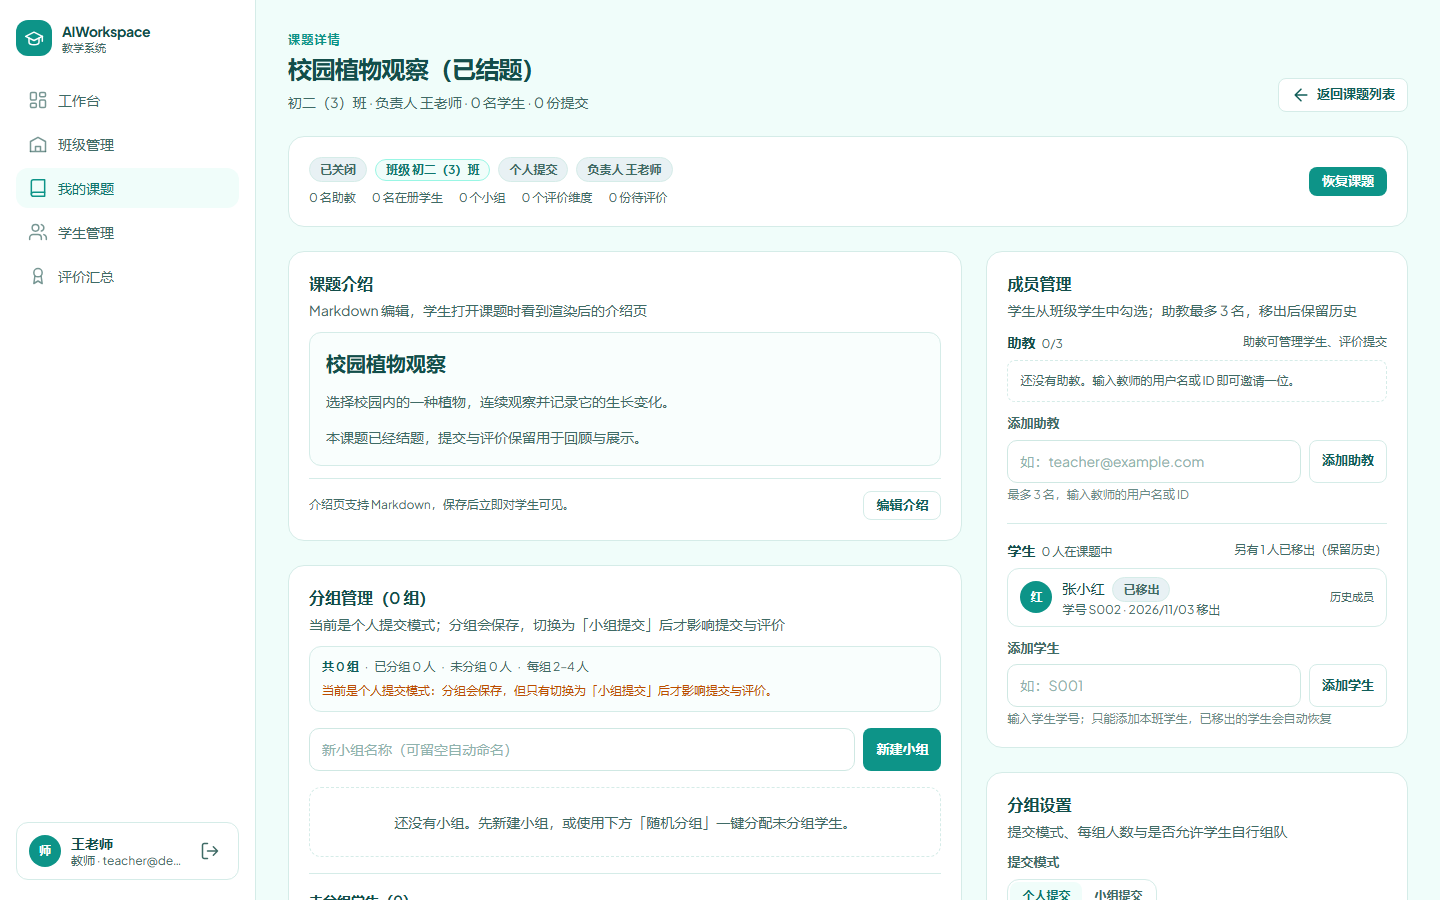
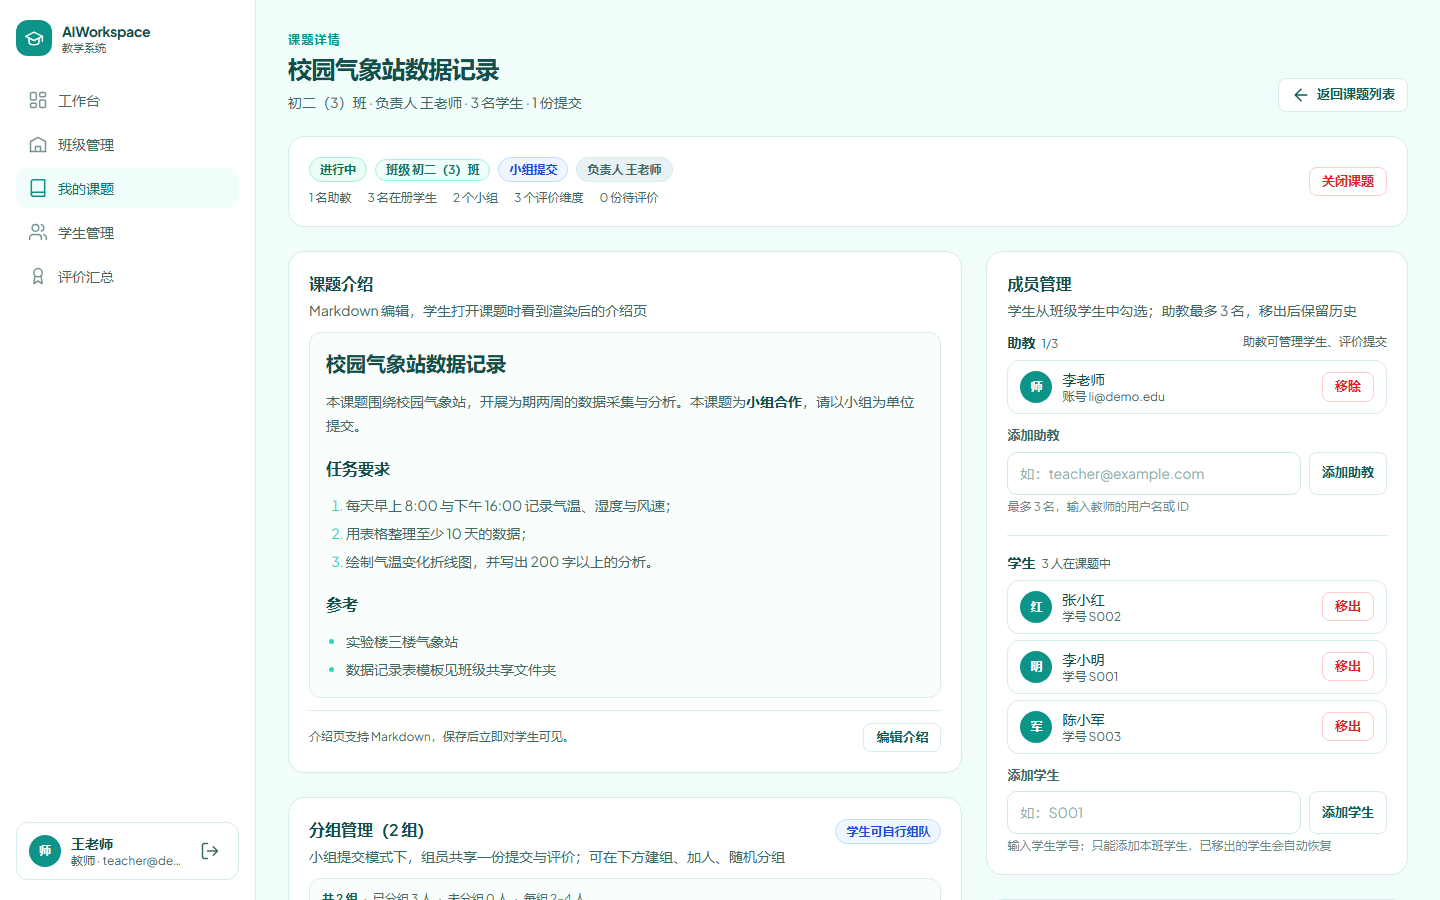
fix(ui): 已关闭课题改为只读（提示+操作禁用）；修正截图脚本登录态顺序并补充关闭态截图
- 教师课题详情：CLOSED 时显示只读提示，介绍编辑/分组管理/成员管理/维度管理/评价区禁用（pointer-events+opacity），仅保留恢复课题
- 截图脚本：admin 截图移到末尾（避免教师页面被重定向）、主课题截图选 ACTIVE、新增 16-closed 截图
- 截图更新：04/11/14/16 等

diff --git a/web/src/pages/teacher/TopicDetail.tsx b/web/src/pages/teacher/TopicDetail.tsx
@@ -67,6 +67,7 @@ export default function TeacherTopicDetailPage() {
   if (!user) return null;
 
   const isOwner = Boolean(topic && topic.owner.id === user.id);
+  const closed = topic?.status === "CLOSED";
 
   async function toggleStatus(next: TopicStatus) {
     if (!topic || statusPending) return;
@@ -177,6 +178,11 @@ export default function TeacherTopicDetailPage() {
             ) : null}
           </div>
           <FormMessage error={statusError ?? undefined} />
+          {closed ? (
+            <p className="mt-2 rounded-lg border border-amber-200 bg-amber-50 px-3 py-2 text-xs leading-relaxed text-amber-800">
+              课题已关闭：成员、分组、维度与评价均为只读；如仍需修改，请先「恢复课题」。
+            </p>
+          ) : null}
 
           <div className="grid gap-6 xl:grid-cols-[minmax(0,1.6fr)_minmax(0,1fr)]">
             <div className="min-w-0 space-y-6">
@@ -187,7 +193,7 @@ export default function TeacherTopicDetailPage() {
                 <MarkdownEditor
                   topicId={topic.id}
                   value={topic.descriptionMd}
-                  canEdit={isOwner}
+                  canEdit={isOwner && !closed}
                   onSaved={() => void load()}
                 />
               </Panel>
@@ -205,16 +211,18 @@ export default function TeacherTopicDetailPage() {
                   ) : null
                 }
               >
-                <GroupManager
-                  topicId={topic.id}
-                  groups={topic.groups}
-                  students={topic.students}
-                  submitMode={topic.submitMode}
-                  groupMin={topic.groupMin}
-                  groupMax={topic.groupMax}
-                  canManage
-                  onChanged={() => void load()}
-                />
+                <div className={closed ? "pointer-events-none opacity-60" : undefined}>
+                  <GroupManager
+                    topicId={topic.id}
+                    groups={topic.groups}
+                    students={topic.students}
+                    submitMode={topic.submitMode}
+                    groupMin={topic.groupMin}
+                    groupMax={topic.groupMax}
+                    canManage
+                    onChanged={() => void load()}
+                  />
+                </div>
               </Panel>
 
               <Panel
@@ -230,29 +238,35 @@ export default function TeacherTopicDetailPage() {
                   )
                 }
               >
-                <SubmissionList
-                  submissions={topic.submissions}
-                  dimensions={topic.dimensions}
-                  onChanged={() => void load()}
-                />
+                <div className={closed ? "pointer-events-none opacity-60" : undefined}>
+                  <SubmissionList
+                    submissions={topic.submissions}
+                    dimensions={topic.dimensions}
+                    onChanged={() => void load()}
+                  />
+                </div>
               </Panel>
             </div>
 
             <div className="min-w-0 space-y-6">
               <Panel title="成员管理" description="学生从班级学生中勾选；助教最多 3 名，移出后保留历史">
-                <MemberManager topic={topic} isOwner={isOwner} onChanged={() => void load()} />
+                <div className={closed ? "pointer-events-none opacity-60" : undefined}>
+                  <MemberManager topic={topic} isOwner={isOwner} onChanged={() => void load()} />
+                </div>
               </Panel>
 
               <Panel title="分组设置" description="提交模式、每组人数与是否允许学生自行组队">
-                <GroupSettings topic={topic} canEdit={isOwner} onChanged={() => void load()} />
+                <GroupSettings topic={topic} canEdit={isOwner && !closed} onChanged={() => void load()} />
               </Panel>
 
               <Panel title="评价维度" description="维度属于课题，评价时按维度打分（0 到满分）">
-                <DimensionManager
-                  topicId={topic.id}
-                  dimensions={topic.dimensions}
-                  onChanged={() => void load()}
-                />
+                <div className={closed ? "pointer-events-none opacity-60" : undefined}>
+                  <DimensionManager
+                    topicId={topic.id}
+                    dimensions={topic.dimensions}
+                    onChanged={() => void load()}
+                  />
+                </div>
               </Panel>
             </div>
           </div>

diff --git a/server/webdist/index.html b/server/webdist/index.html
@@ -6,8 +6,8 @@
     <meta name="viewport" content="width=device-width, initial-scale=1.0" />
     <meta name="theme-color" content="#0d9488" />
     <title>AIWorkspace 教学系统</title>
-    <script type="module" crossorigin src="/assets/index-CN7VDLG_.js"></script>
-    <link rel="stylesheet" crossorigin href="/assets/index-Dx3OoNE8.css">
+    <script type="module" crossorigin src="/assets/index-cSAE7lAE.js"></script>
+    <link rel="stylesheet" crossorigin href="/assets/index-DpSR844a.css">
   </head>
   <body>
     <div id="root"></div>
